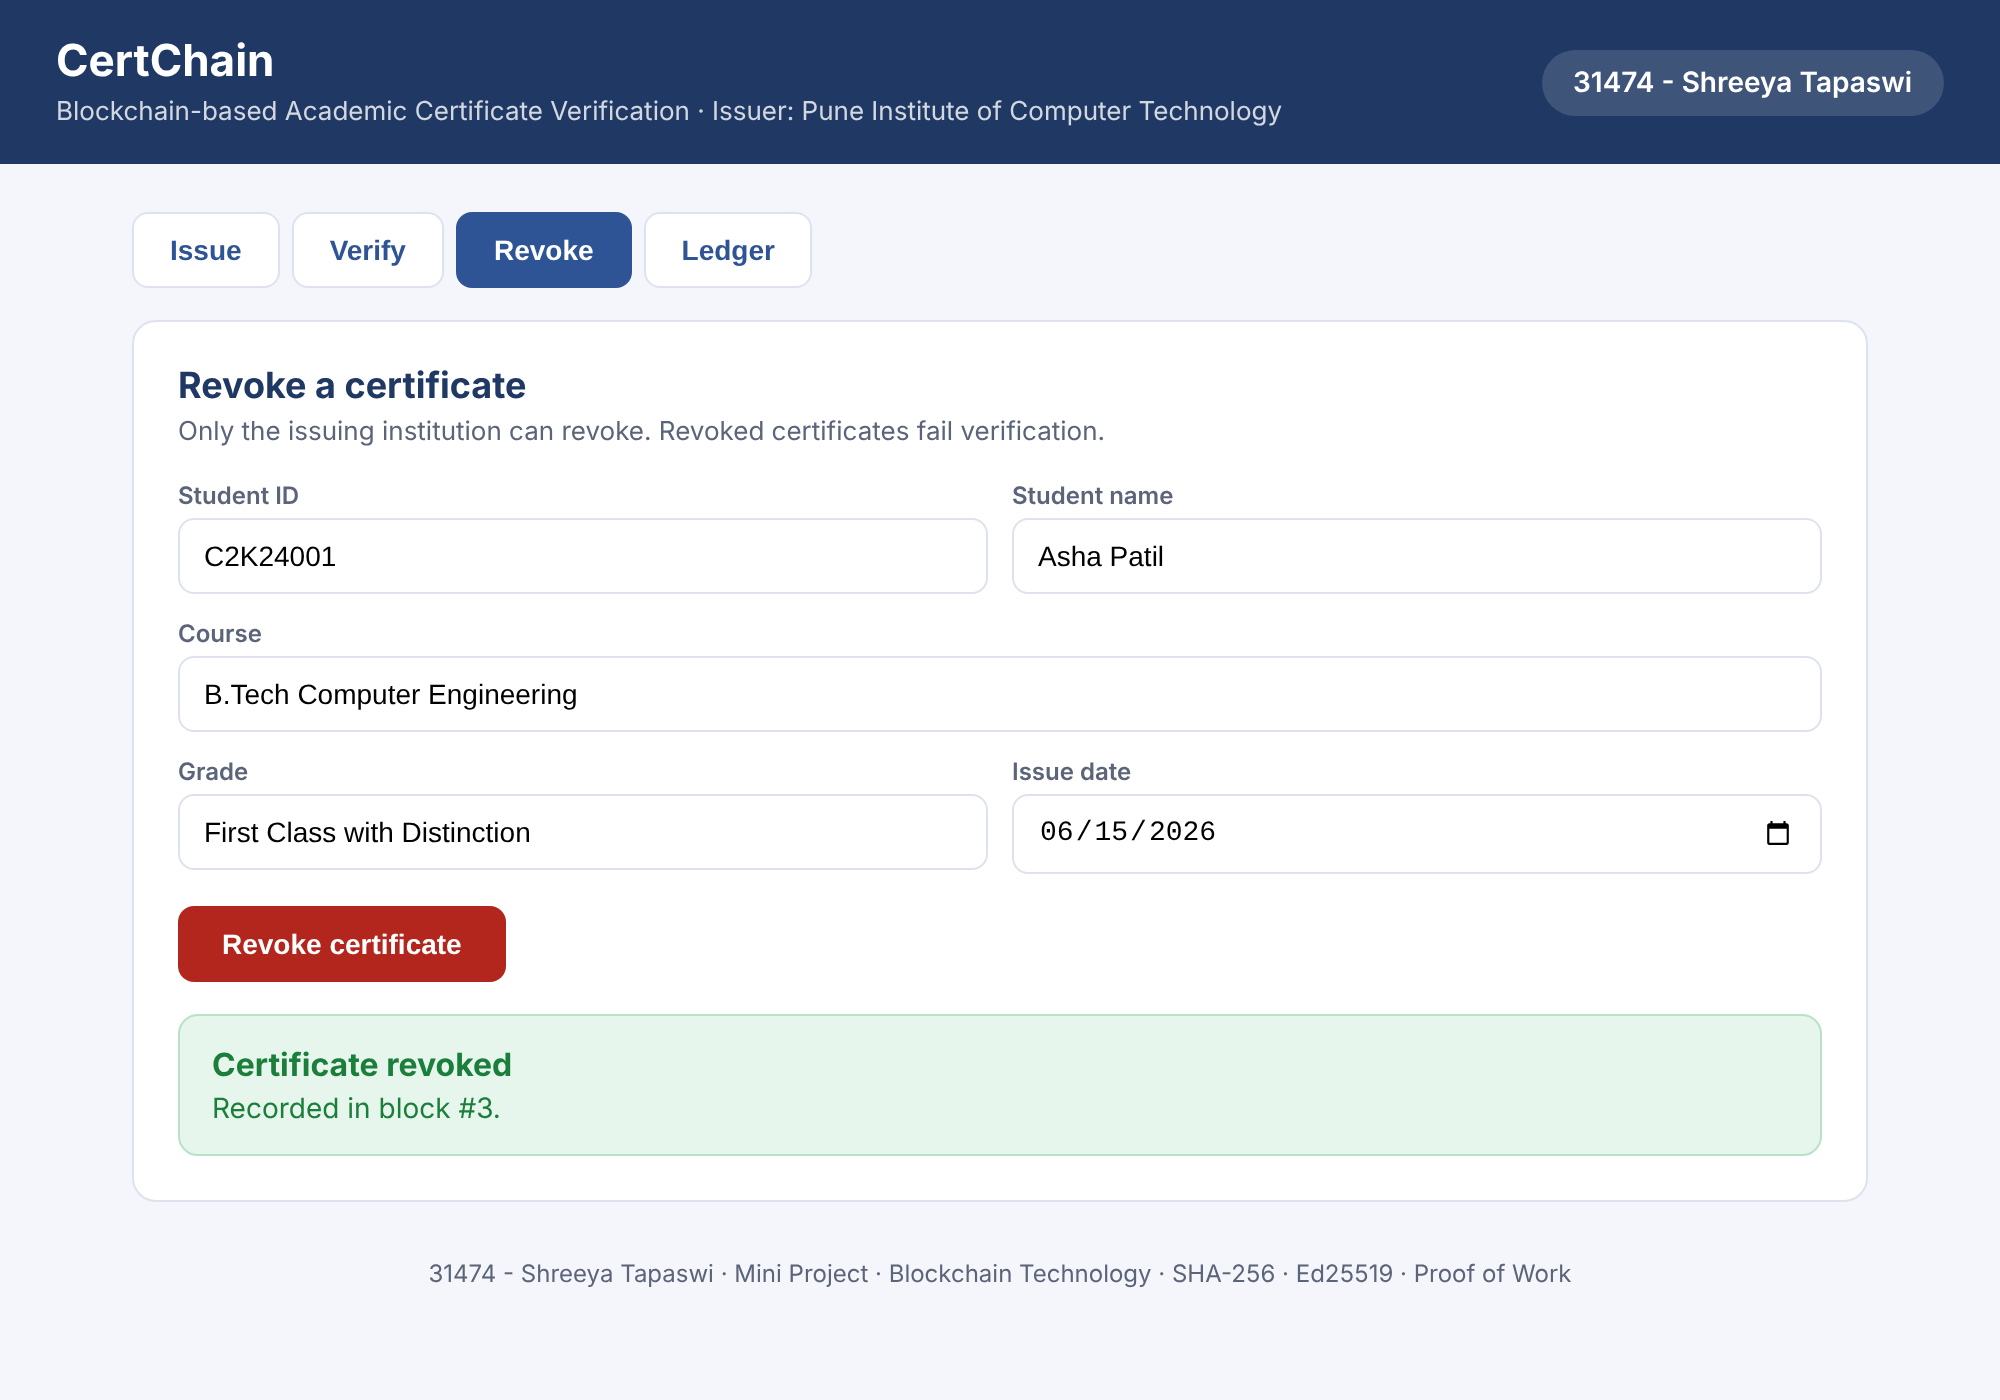
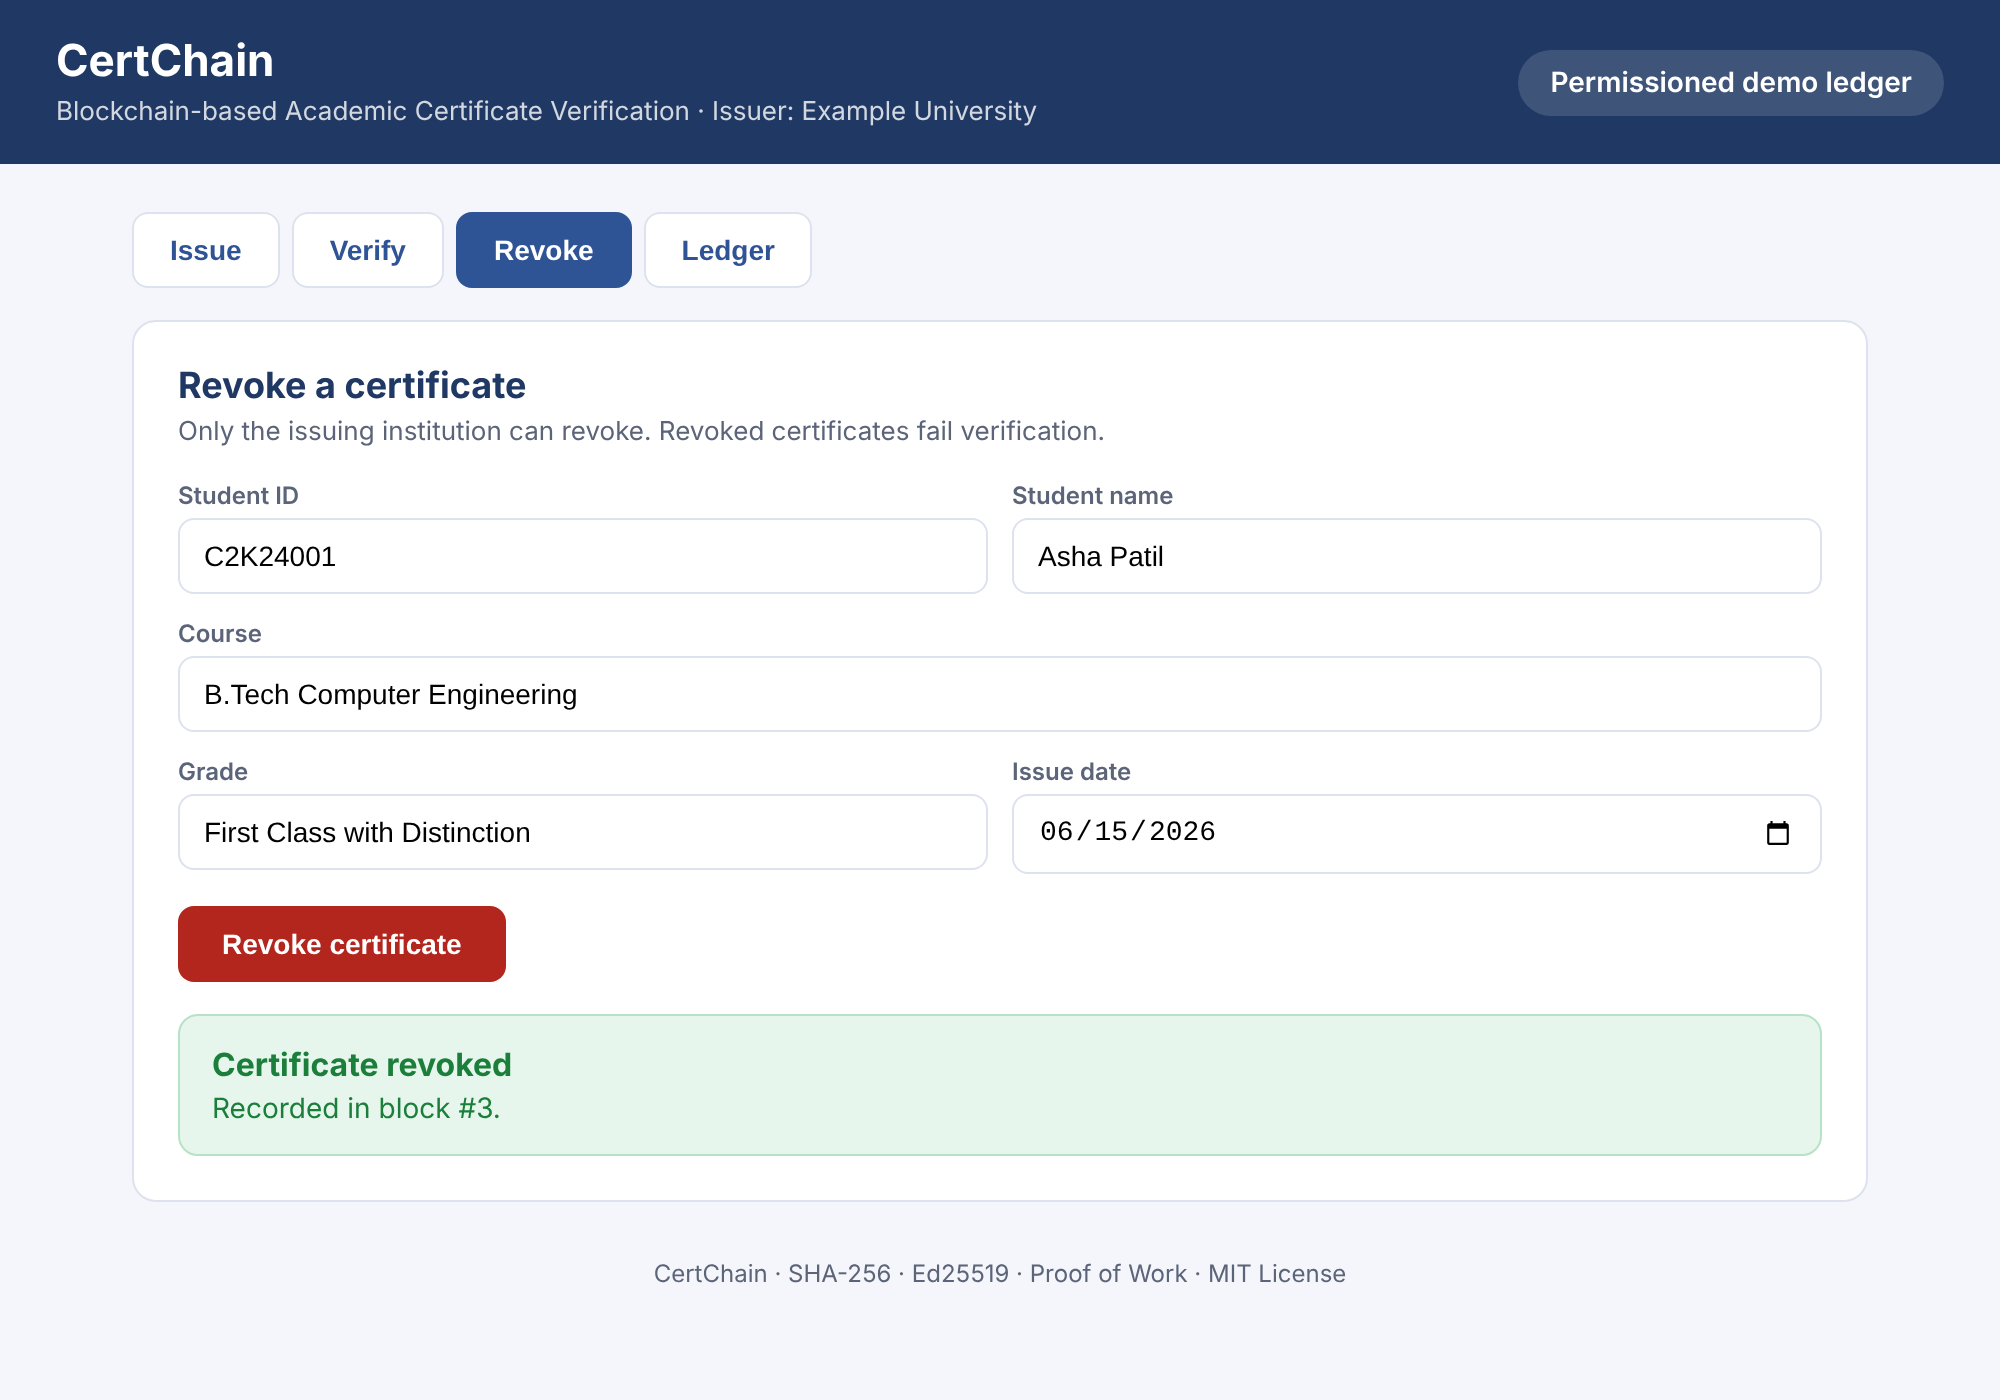
Update files

Changed region(s): [[0.217, 0.8907, 0.775, 0.9214], [0.744, 0.0307, 0.961, 0.0921], [0.403, 0.0614, 0.651, 0.0921]]

diff --git a/templates/index.html b/templates/index.html
@@ -3,7 +3,7 @@
 <head>
 <meta charset="utf-8">
 <meta name="viewport" content="width=device-width, initial-scale=1">
-<title>CertChain - 31474 - Shreeya Tapaswi</title>
+<title>CertChain | Academic Certificate Verification</title>
 <style>
   :root { --navy:#1f3864; --blue:#2f5496; --bg:#f4f6fb; --card:#fff; --line:#dde2ee;
           --ok:#1b7f3b; --okbg:#e6f6ec; --bad:#b3261e; --badbg:#fdeceb; --muted:#5b6478; }
@@ -61,7 +61,7 @@
     <h1>CertChain</h1>
     <p>Blockchain-based Academic Certificate Verification &middot; Issuer: {{ institution }}</p>
   </div>
-  <div class="who">31474 - Shreeya Tapaswi</div>
+  <div class="who">Permissioned demo ledger</div>
 </header>
 <main>
   <nav>
@@ -130,7 +130,7 @@
     <div id="blocks"></div>
   </section>
 </main>
-<footer>31474 - Shreeya Tapaswi &middot; Mini Project &middot; Blockchain Technology &middot; SHA-256 &middot; Ed25519 &middot; Proof of Work</footer>
+<footer>CertChain &middot; SHA-256 &middot; Ed25519 &middot; Proof of Work &middot; MIT License</footer>
 
 <script>
 const $ = s => document.querySelector(s);

diff --git a/demo.py b/demo.py
@@ -1,5 +1,4 @@
-"""[31474 - Shreeya Tapaswi]
-Demo: issue, verify, tamper-detect and revoke certificates."""
+"""Demo: issue, verify, tamper-detect and revoke certificates."""
 from blockchain import Blockchain, Institution, Transaction, certificate_hash
 
 
@@ -12,17 +11,17 @@ def issue(chain, inst, **cert):
 
 def main():
     print("=" * 60)
-    print("Blockchain Certificate Verification - 31474 - Shreeya Tapaswi")
+    print("CertChain - Blockchain Certificate Verification")
     print("=" * 60)
     chain = Blockchain()
-    pict = Institution("Pune Institute of Computer Technology")
-    chain.register_institution(pict)
+    inst = Institution("Example University")
+    chain.register_institution(inst)
 
     print("== 1. Issuing certificates ==")
     cert = dict(student_id="C2K24001", name="Asha Patil", course="B.Tech Computer Engineering",
                 grade="First Class with Distinction", issue_date="2026-06-15")
-    h1 = issue(chain, pict, **cert)
-    h2 = issue(chain, pict, student_id="C2K24002", name="Rohan Deshmukh",
+    h1 = issue(chain, inst, **cert)
+    h2 = issue(chain, inst, student_id="C2K24002", name="Rohan Deshmukh",
                course="B.Tech Computer Engineering", grade="First Class", issue_date="2026-06-15")
     block = chain.mine_pending()
     print(f"Mined block #{block.index} hash={block.hash[:16]}... ({len(block.transactions)} certificates)")
@@ -32,7 +31,7 @@ def main():
 
     print("\n== 3. Verifying a forged certificate (grade changed) ==")
     forged = dict(cert, grade="Distinction with Honours")
-    print(chain.verify_certificate(certificate_hash(institution=pict.name, **forged)))
+    print(chain.verify_certificate(certificate_hash(institution=inst.name, **forged)))
 
     print("\n== 4. Unauthorised issuer is rejected ==")
     fake = Institution("Fake University")
@@ -42,7 +41,7 @@ def main():
         print("Rejected:", e)
 
     print("\n== 5. Revoking a certificate ==")
-    chain.add_transaction(Transaction("REVOKE", h2, pict.public_key_hex, pict.sign(f"REVOKE:{h2}")))
+    chain.add_transaction(Transaction("REVOKE", h2, inst.public_key_hex, inst.sign(f"REVOKE:{h2}")))
     chain.mine_pending()
     print(chain.verify_certificate(h2))
 

diff --git a/test_blockchain.py b/test_blockchain.py
@@ -1,4 +1,4 @@
-"""Unit tests - 31474 - Shreeya Tapaswi"""
+"""Unit tests for the CertChain blockchain core."""
 import unittest
 
 from blockchain import Blockchain, Institution, Transaction, certificate_hash
@@ -6,7 +6,7 @@ from blockchain import Blockchain, Institution, Transaction, certificate_hash
 
 def make():
     chain = Blockchain()
-    inst = Institution("PICT")
+    inst = Institution("Example University")
     chain.register_institution(inst)
     return chain, inst
 
@@ -18,7 +18,7 @@ def issue_tx(inst, h, kind="ISSUE"):
 class CertTests(unittest.TestCase):
     def setUp(self):
         self.chain, self.inst = make()
-        self.h = certificate_hash("1", "A", "BTech", "A", "2026-01-01", "PICT")
+        self.h = certificate_hash("1", "A", "BTech", "A", "2026-01-01", "Example University")
 
     def test_issue_and_verify(self):
         self.chain.add_transaction(issue_tx(self.inst, self.h))
@@ -31,7 +31,7 @@ class CertTests(unittest.TestCase):
     def test_tampered_content_invalid(self):
         self.chain.add_transaction(issue_tx(self.inst, self.h))
         self.chain.mine_pending()
-        other = certificate_hash("1", "A", "BTech", "A+", "2026-01-01", "PICT")
+        other = certificate_hash("1", "A", "BTech", "A+", "2026-01-01", "Example University")
         self.assertFalse(self.chain.verify_certificate(other)["valid"])
 
     def test_unauthorised_issuer_rejected(self):

diff --git a/app.py b/app.py
@@ -1,5 +1,4 @@
-"""[31474 - Shreeya Tapaswi]
-Web UI for the Academic Certificate Verification System.
+"""Web UI for the Academic Certificate Verification System.
 
 Run:  python app.py   then open http://127.0.0.1:5000
 """
@@ -9,7 +8,7 @@ from blockchain import Blockchain, Institution, Transaction, certificate_hash
 
 app = Flask(__name__)
 
-INSTITUTION_NAME = "Pune Institute of Computer Technology"
+INSTITUTION_NAME = "Example University"
 state = {}
 
 

diff --git a/blockchain.py b/blockchain.py
@@ -1,5 +1,4 @@
-"""[31474 - Shreeya Tapaswi]
-Core blockchain for the Academic Certificate Verification System.
+"""Core blockchain for the Academic Certificate Verification System.
 
 A minimal permissioned blockchain: each block stores a list of certificate
 transactions (ISSUE / REVOKE), is linked to the previous block by hash and is

diff --git a/README.md b/README.md
@@ -22,9 +22,6 @@ Forged degrees and marksheets are a real problem, and verifying a certificate by
 
 Because only hashes are stored, **no personal data (names, grades) ever goes on-chain**.
 
-> **Mini Project: Blockchain Technology**
-> Shreeya S Tapaswi (31474), Pune Institute of Computer Technology (PICT)
-
 🔗 **Live demo:** https://blockchain-academic-certificate-verification.onrender.com
 *(Free hosting sleeps when idle, so the first load can take about a minute. The ledger resets whenever the server restarts.)*
 
@@ -130,7 +127,6 @@ Blockchain-Academic-Certificate-Verification/
 │   └── index.html              # Web UI (Issue, Verify, Revoke, Ledger)
 ├── screenshots/           # Images used in this README
 ├── requirements.txt            # cryptography, flask, gunicorn
-├── Certificate_Verification_Mini_Project_Report.docx
 ├── LICENSE
 └── README.md
 ```
@@ -176,10 +172,10 @@ Sample output:
 
 ```
 == 1. Issuing certificates ==
-Mined block #1 hash=00022b8c23a213f4... (2 certificates)
+Mined block #1 hash=00056aa852cc99e7... (2 certificates)
 
 == 2. Verifying a genuine certificate ==
-{'valid': True, 'reason': 'Certificate is authentic', 'institution': 'Pune Institute of Computer Technology', ...}
+{'valid': True, 'reason': 'Certificate is authentic', 'institution': 'Example University', ...}
 
 == 3. Verifying a forged certificate (grade changed) ==
 {'valid': False, 'reason': 'Certificate not found on the ledger'}
